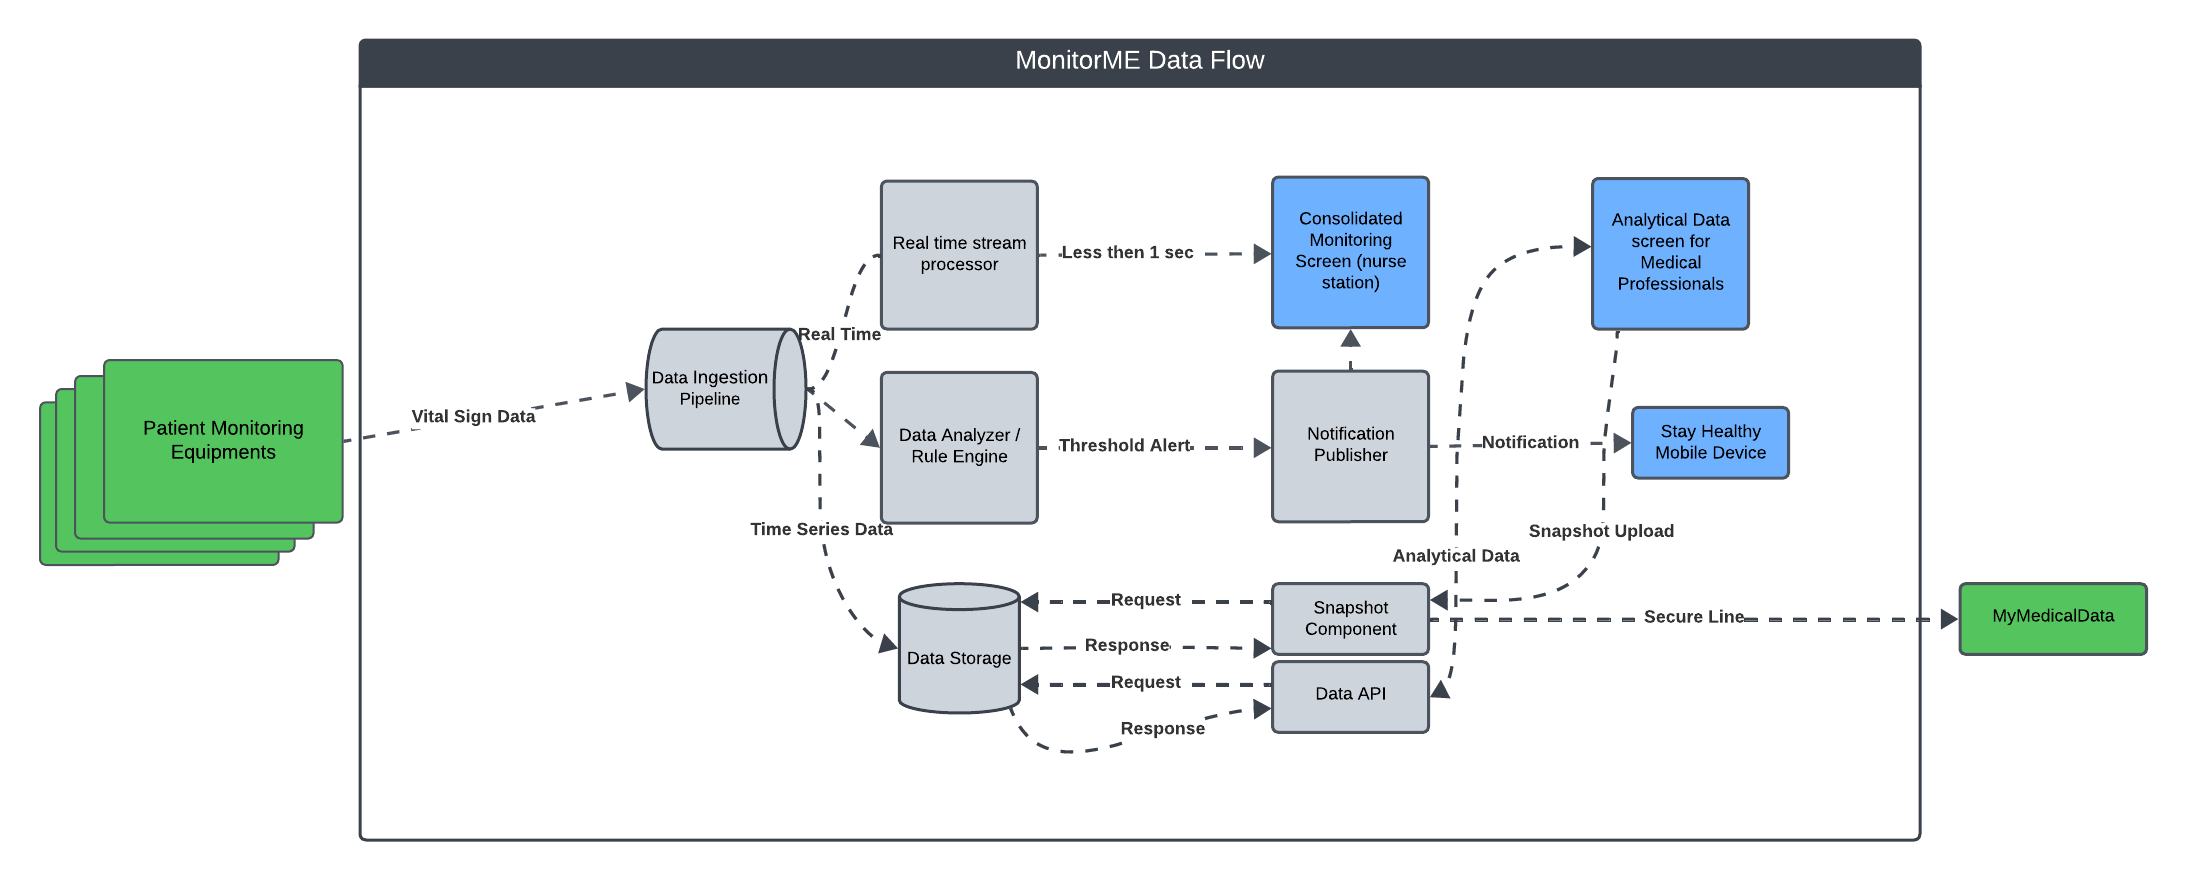
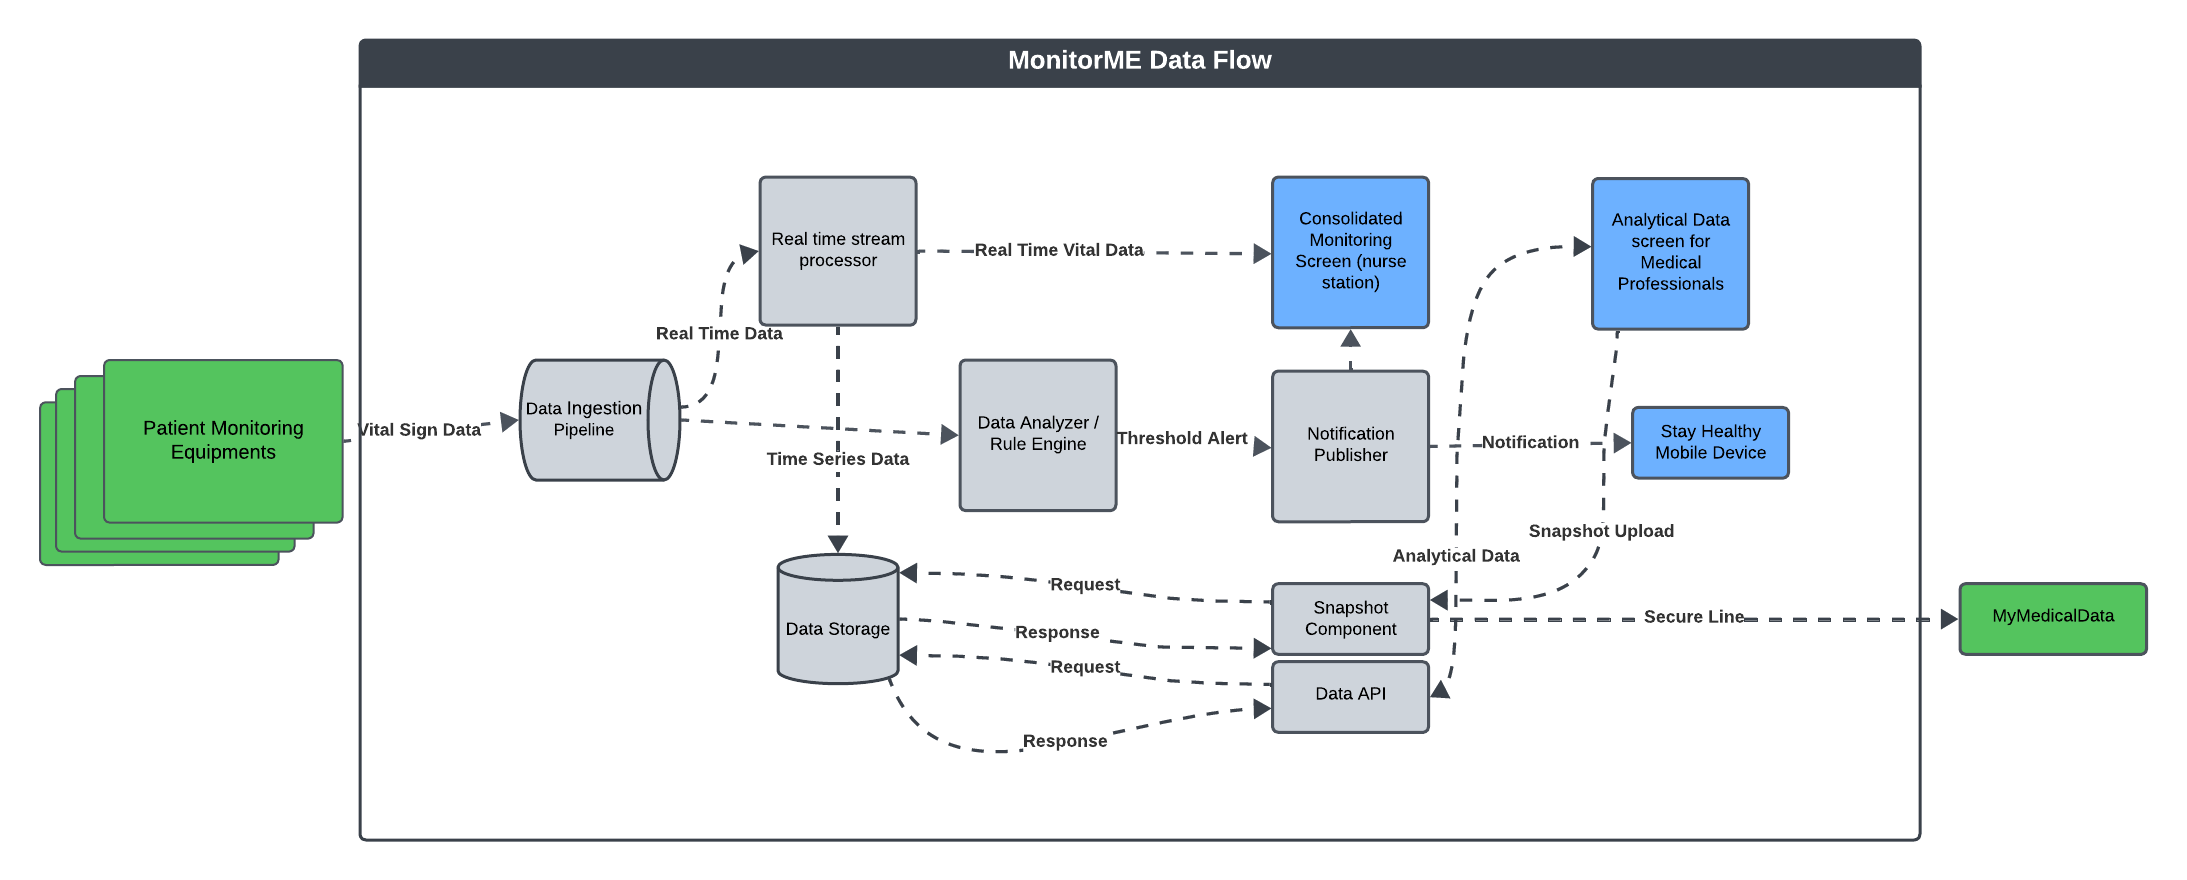
Formatting, Content Update, Diagram update

Changed region(s): [[0.1555, 0.1841, 0.5908, 0.8591], [0.4664, 0.0614, 0.5908, 0.092]]

diff --git a/Readme.md b/Readme.md
@@ -108,6 +108,7 @@ For the original requirements please follow [Original Requirements](./Requiremen
 
 - Hospital should have facility if any faulty patient monitoring device then capture patients vital manually or replace machine.
 - For Disaster recovery hospital should consider to have availability of servers in separate locations and technical team keep doing every 6 month DR activity.
+- Regular security assessments, penetration testing, and compliance audits are conducted to ensure adherence to industry standards and regulations.
 
 ## Proposed Architecture
 	Identified key architectural characteristics during requirements analysis as mentioned below
@@ -213,41 +214,42 @@ See below all the integration points
 ## Software Architect
 ![alt text](Images/SoftwareArchitect.png)
 
-1st Layer is Presentation Layer which will have a login screen for authentication and registration for Nurses & Medical staff. This feature allows users to register and identify their medical credentials and securely store their information in the application servers.
+* 1st Layer is Presentation Layer which will have a login screen for authentication and registration for Nurses & Medical staff. This feature allows users to register and identify their medical credentials and securely store their information in the application servers.
 
-2nd Layer is Business Layer which exposes the business logic implemented in the Business logic to potential consumers. We divided this layer into three blocks, in which the Healthcare Subsystem is used to check the data generated from the patient. The other block called Management Subsystem which has an administrative function, tasked with supervising and managing multiple patients, wearable devices and healthcare workers and last layer integrates with microservices one example is uploading patient snapshot to MyMedical Data
+* 2nd Layer is Business Layer which exposes the business logic implemented in the Business logic to potential consumers. We divided this layer into three blocks, in which the Healthcare Subsystem is used to check the data generated from the patient. The other block called Management Subsystem which has an administrative function, tasked with supervising and managing multiple patients, wearable devices and healthcare workers and last layer integrates with microservices one example is uploading patient snapshot to MyMedical Data
 
-3rd Layer is Data Access Layer which contains components to abstract the logic required to access the data stores. Such components provide common data access functionality, isolating the upper layers from the specific database technology, and making the application easier to maintain and configure.
+* 3rd Layer is Data Access Layer which contains components to abstract the logic required to access the data stores. Such components provide common data access functionality, isolating the upper layers from the specific database technology, and making the application easier to maintain and configure.
 
-4th Layer is Persistence Layer which provides several advantages to the software since it is more efficient to save and retrieve data and provide for the whole application. In our context, we have four data sources, namely: Patient vital tracking Devices, patient data, Health Data,  Logging Data and Timeseries DB
+* 4th Layer is Persistence Layer which provides several advantages to the software since it is more efficient to save and retrieve data and provide for the whole application. In our context, we have four data sources, namely: Patient vital tracking Devices, patient data, Health Data,  Logging Data and Timeseries DB
 
 One advantage of the proposed  application in the solution framework is the interaction with the end users. Using the platform, Medical healthcare workers can track multiple patients health conditions in a centralized and reliable manner. Note that the proposed real-time monitoring platform can be integrated into vital tracking devices. It is essential to highlight that a distributed system such as this proposed MonitorMe application needs a fully distributed security system.
 
 
 ### Data flow/Information Flow Diagram
 
-Based on functional requirements we identified data flow our application should support. The data flow for our application begins with integrating Data Ingesion Pipeline with Patient Monitoring Equipments to capture the patient's vital information.
+Based on functional requirements we identified data flow **MonitorME** application should support. The data flow for our application begins with integrating Data Ingesion Pipeline with Patient Monitoring Equipments to capture the patient's vital information.
 
-* Data Ingesion Pipeline    - Collects data from various vital sign monitoring devices via automated feeds, ensuring accurate and timely data capture, process/
-								transform the data and publish to multiple downstream systems in real time.
+* **Data Ingesion Pipeline**: Collects data from various vital sign monitoring devices via automated feeds, ensuring accurate and timely data capture, process/transform the data and publish to multiple downstream systems in real time.
 
-* RealTime stream processor - Stream the real time data on the monitoring screen at Nursing stations
+* **RealTime stream processor**: Stream the real time data on the monitoring screen at Nursing stations
 
-* Data Analyzer/Rule Engine - Analyse the vitals based on configured threashold and alert will be sent to Notification publisher in case of anomaly.
+* **Data Analyzer/Rule Engine**: Analyse the vitals based on configured threashold and alert will be sent to Notification publisher in case of anomaly.
 
-* Notification publisher   - Push Notification to registed MedicalStaff on StayHealth Mobile device. 
+* **Notification publisher**: Push Notification to registered Medical Professionals on StayHealth Mobile device as well as on the consolidated monitoring screeen. 
 
-* Data Storage             - Time series data will be stored for futher analysis by Medical Staff.
+* **Data Storage**: Time series data will be stored for further analysis by the Medical Professionals.
 
-* Snapshot Component 	   - APIs are exposed to download the Patient's vitals snapshot and upload to MyMedicalData system using secure HTTP API call.	
+* **Snapshot Component**: APIs will be exposed to download the Patient's vitals snapshot and can be uploaded to MyMedicalData using secure HTTP API call.
+
+* **Data API**: This will be used to query analytical data by the Medical Professional to anyalyze patient's vitals.
+
 ![Data Flow](Images/DataFlow.png)
 
 
 ### System Architecture
 
 
-The diagram represents the individual illustrating the workflow of a medical software system designed to monitor and manage patient vital signs in real-time. 
-MonitorME is responsible for sending real-time updates regarding patients' vital signs to a centralized monitoring screen. 
+The diagram represents the workflow of a medical software system designed to monitor and manage patient vital signs in real-time. MonitorME is responsible for sending real-time updates regarding patients' vital signs to a centralized monitoring screen. 
 
 * Data Transmitter process the collected vital signs data and transmit to Kafka stream(a distributed event streaming platform that handles real-time data feeds) 
 
@@ -259,14 +261,14 @@ MonitorME is responsible for sending real-time updates regarding patients' vital
 * Realtime stream processor also stores vital sign to Timeseries database which is used by Data Analyzer as well as Snapshot Processor
 
 * Data Analyzer
-	Rule Engine	      - A critical component that aids in adjusting alerts based on specific parameters, ensuring that the system remains adaptive and responsive 
+	Rule Engine: A critical component that aids in adjusting alerts based on specific parameters, ensuring that the system remains adaptive and responsive 
 					    to varying patient conditions.
-	Stream Analytics  - Analyze the patients' vitals against the rules from Rule engine and Sent notification to Notification Publisher to notify the Mecical staff. 
-	Alert Config APIs - To update the alert configurtion
+	Stream Analytics: Analyze the patients' vitals against the rules from Rule engine and Sent notification to Notification Publisher to notify the Mecical staff. 
+	Alert Config APIs: To update the alert configurtion
 
 * Notification Publisher push the notification to Medical professional devices like Stay Healthy Mobile App.
 
-* Snapshot processor - Medical professionals can request snapshots of vital signs data and sync to MyMedicalData via Secure HTTP Gateway API
+* Snapshot processor: Medical professionals can request snapshots of vital signs data and sync to MyMedicalData via Secure HTTP Gateway API
 
 Overall, the diagram meticulously outlines the interconnected components and processes of a sophisticated software flow dedicated to real-time monitoring, analysis, and management of patient vital signs, emphasizing its utility in enhancing healthcare delivery and patient monitoring practices.
 
@@ -290,13 +292,39 @@ Describes how the system will be operated when it is running in the hospital fac
 
 
 ## Deployment Viewpoint
-SOME TEXT HeRE ??????????????????????????????????????????
+
+Deploying a real-time dashboard for monitoring hospital patient vitals on-premises requires consideration of various factors to ensure reliability and security. To ease the deployment process all the components will be packaged together that can be easily deployed using straightforward instructions.
+
+**Hardware Infrastructure**: Ensure that the hardware meets performance and scalability needs, considering factors such as CPU, memory, storage, and network bandwidth.
+
+**Security and Compliance**: 
+* User authentication SSO/LDAP strategies should be enforced along with Role-Based Access Control (RBAC) to limit access to confidential data.
+* Apply current firewall policies/rules to safeguard patient data. This should be done in conjunction with implementing TLS/SSL protocol for encrypted data transmission. 
+* Data encryption, access controls, and audit trails are implemented to protect sensitive patient information.
+
+
+**High Availability and Disaster Recovery**: MonitorME app will be configured with high availability and disaster recovery mechanisms to ensure continuous availability of the real-time dashboard in case of hardware failures or natural disasters. Following factors will be considered to minimize downtime and data loss such as
+* Data replication
+* Load balancing
+* Failover clustering
+
+**Deployment Environment**: We preferred to use Kubernetes as orchestration tool to manage containerized applications to ensure scalability and fault tolerance.
+
+**Monitoring and Alerting**:
+* Continuous monitoring of system health, performance metrics, and data quality is crucial.
+* Prometheus and Grafana will be used for monitoring and alerting.
+* Alerts will be configured to notify system administrators in case of system failures, performance degradation, or data discrepancies.
+
+**Testing and Validation**: 
+* Comprehensive testing and verification of the real-time dashboard application to ensure its reliability, accuracy, and performance under various conditions.
+* Execute load testing, security testing, and user acceptance testing (UAT) to detect and rectify any concerns if there is any.
+
+We can effectively deploy a real-time dashboard for monitoring hospital patient vitals on-premises, providing healthcare professionals with timely insights to improve patient care and outcomes while maintaining data security and regulatory compliance.
 
 ![Deployment ViewPoint](Images/DeploymentDiagram.png)
 
 ## Technology Stack
-SOME Text Here ???????????????????????
-
+Below is the technology diagram which we prefer to develop MonitorMe app.
 ![Technology Stack](Images/MonitorMeTechStack.png)
 
 ## Security Perspective
